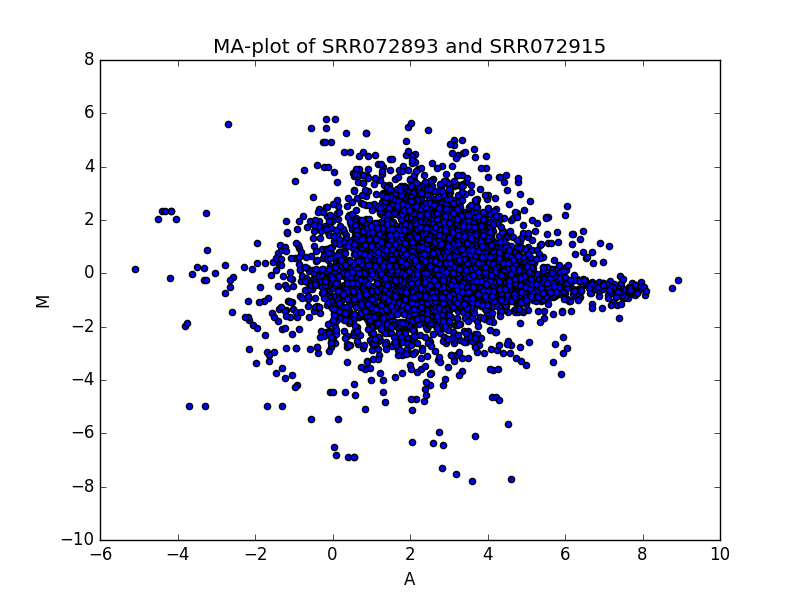
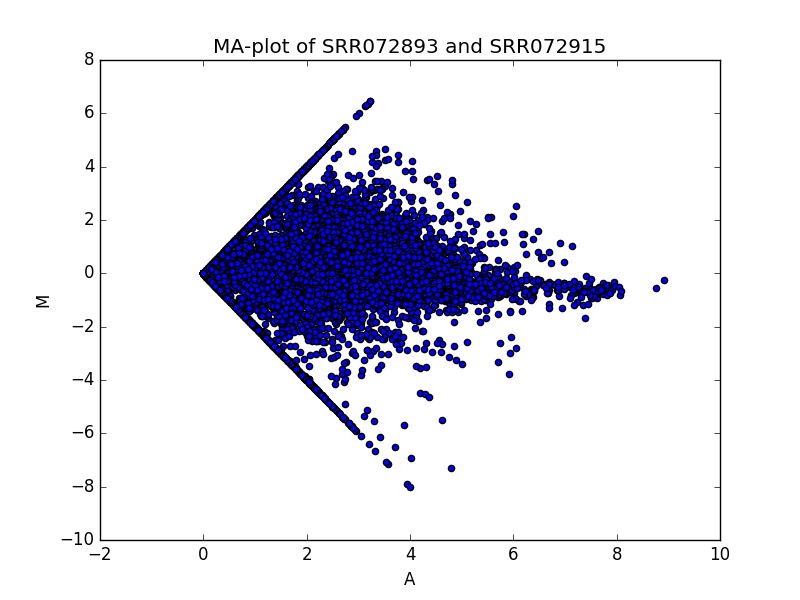
day4 homework part 3 correct maplot

diff --git a/day4-homework/day4-homework-maplot.py b/day4-homework/day4-homework-maplot.py
@@ -17,8 +17,8 @@ fpkm = df["FPKM"].values
 fpkm2 = df2["FPKM"].values
 
 #determine log of fpkm values
-fpkm_log = np.log(fpkm)
-fpkm_log2 = np.log(fpkm2)
+fpkm_log = np.log(fpkm + 1)
+fpkm_log2 = np.log(fpkm2 + 1)
 
 #define m and a as follows:
 m = (fpkm_log - fpkm_log2)
